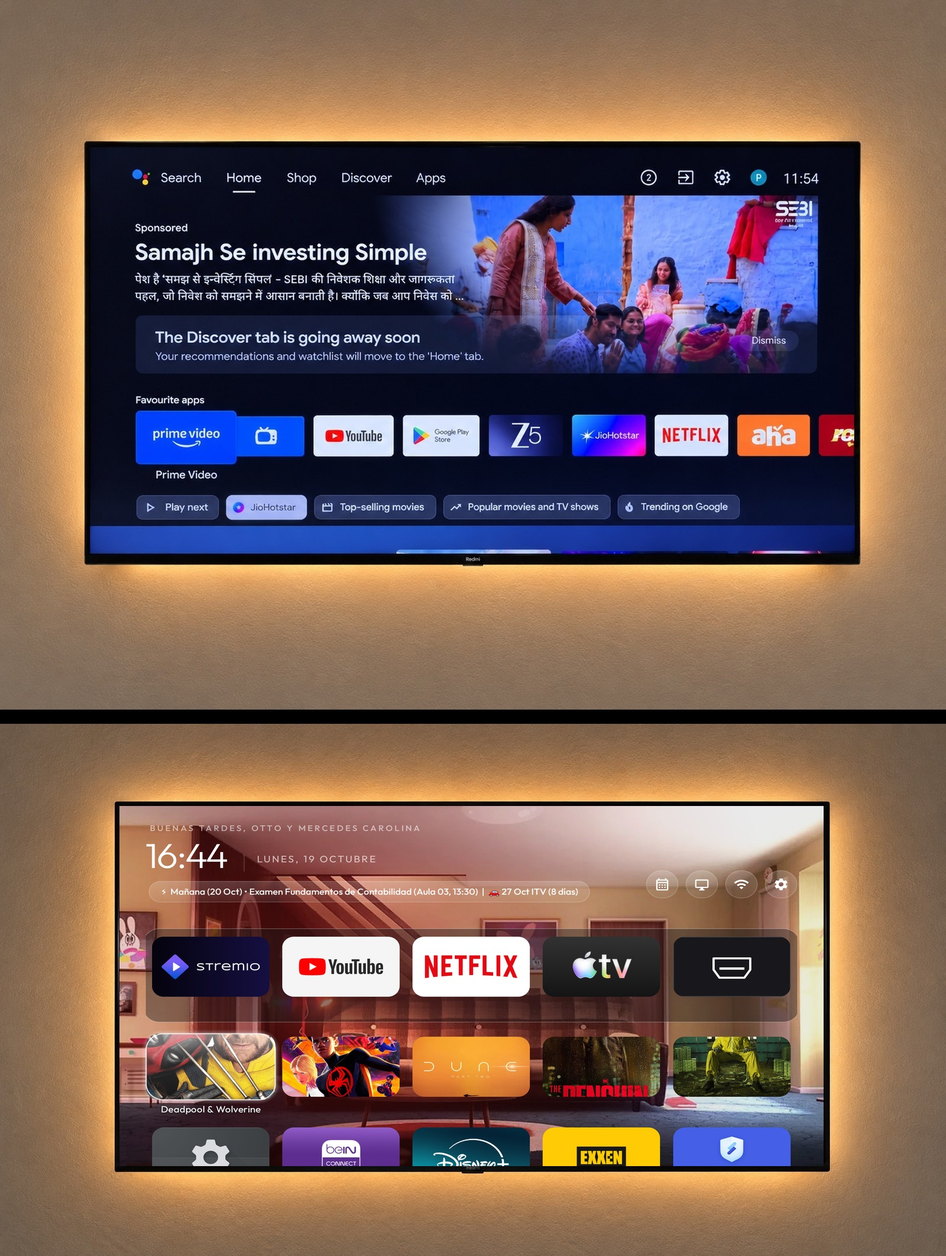
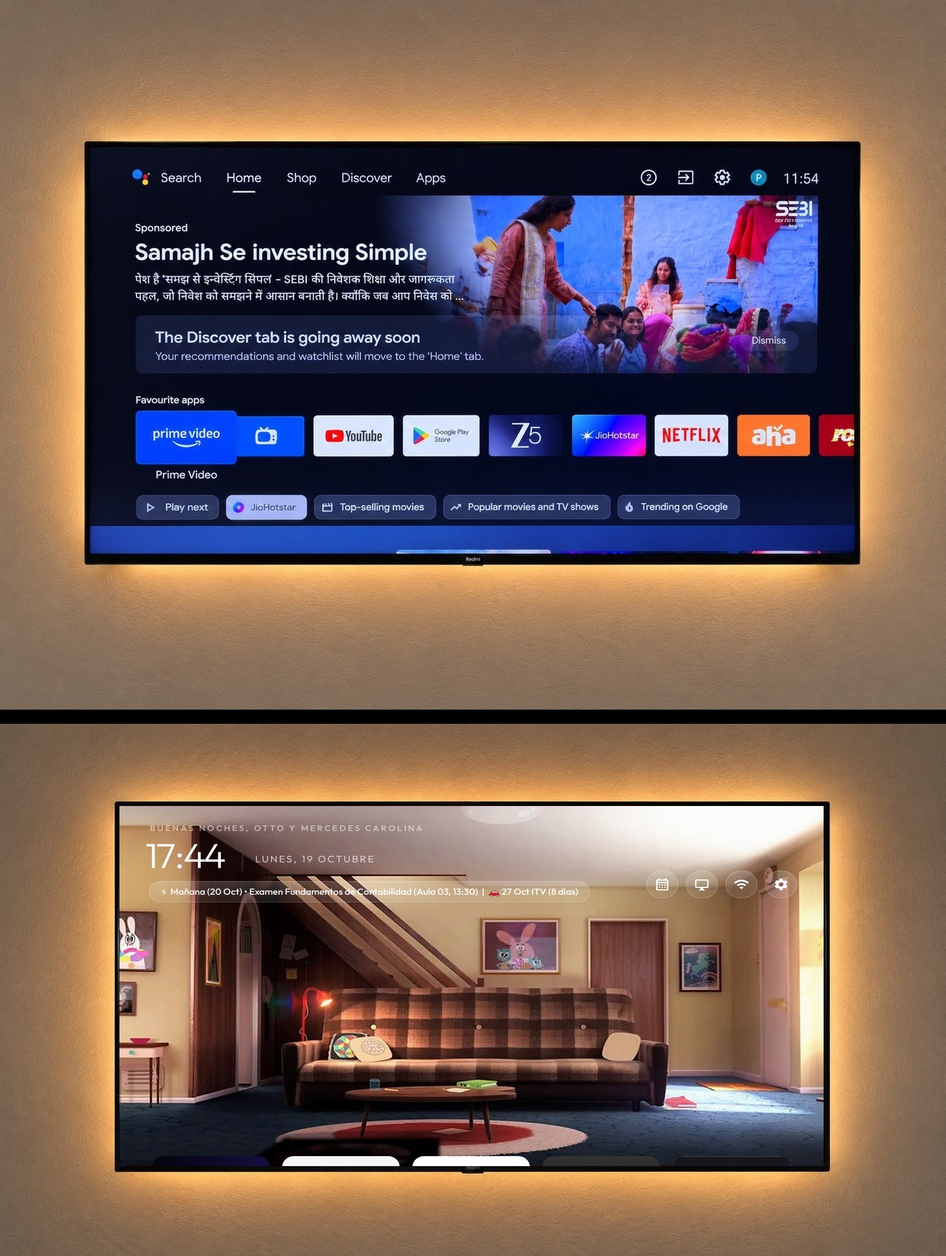
docs: make wallpaper-focused ambient look the primary showcase and hero visual

Changed region(s): [[0.125, 0.6215, 0.8438, 0.9322]]

diff --git a/README.md b/README.md
@@ -6,28 +6,35 @@ A lightweight, privacy-focused tvOS-inspired launcher fork for Android TV and Go
 This fork builds upon [Gathin23/cleanyourtv](https://github.com/Gathin23/cleanyourtv) with a rich media shelf, wallpaper peek physics, a frosted glass settings interface, and integrated calendar tracking.
 
 <p align="center">
-  <img src="docs/stock-vs-new-side.jpg" alt="Before and After: Stock TV vs tvOS Launcher with Stremio Shelf" width="100%">
+  <img src="docs/new-home.jpg" alt="Wallpaper-Focused tvOS Launcher on Android TV" width="100%">
 </p>
 
-| Stock home screen (Before) | tvOS Launcher with Stremio Shelf & Peek Dock (After) |
-|---|---|
-| ![Stock Google TV home with a sponsored ad](docs/stock-home.jpg) | ![tvOS-style launcher with Stremio shelf and dock](docs/new-home.jpg) |
+### Before & After
+
+<p align="center">
+  <img src="docs/stock-vs-new-side.jpg" alt="Before and After: Stock TV vs Wallpaper-Focused Launcher" width="100%">
+</p>
 
 Everything is reversible: packages are disabled, never uninstalled, and a restore script puts the stock launcher back.
 
 ## Fork Features
 
-- **Stremio Integration & Media Shelf:** Adds an auto-populated shelf for your continue-watching and trending Stremio media with cached posters and seamless leanback intent launching.
-- **Ultra-Low Dock Peek Mode:** Minimizes the dock down towards the bottom bezel when unfocused so your wallpapers and media remain visible. Seamlessly springs back up when pressing DPAD Down.
+- **Wallpaper-Focused Ambient Aesthetics:** Transforms your living room TV into an artful ambient display with dynamic Day/Night solar cycles.
+- **Ultra-Low Dock Peek Mode:** Minimizes the dock down towards the bottom bezel when unfocused so your wallpapers and ambient art remain unobstructed. Seamlessly springs back up when pressing DPAD Down.
+- **Stremio Integration & Media Shelf:** Adds an auto-populated shelf for continue-watching and trending Stremio media with cached posters and seamless leanback launching.
 - **Frosted Glass Settings:** A leanback tvOS-style frosted glass settings overlay allowing you to toggle dock peek depth (Ultra / Balanced / None), pill styles (icon-only vs. text+logo), and themes.
 - **Dynamic Day/Night Theme Cycle:** Automatically transitions wallpapers between day and night based on the local solar cycle.
 - **Calendar & Schedule Overlay:** Lightweight, keyboard/dpad friendly month calendar with day tracking and agenda support.
 - **Smart App Labels:** Keeps the interface clean by revealing app titles only under the currently focused item.
 - **Remote Video Key Shortcut:** Accessibility service helper to map remote media/video shortcuts to launch Stremio directly.
 
-| Dynamic Wallpaper & Peek Dock Mode | Frosted Glass Settings Overlay |
+| Dynamic Wallpaper & Peek Dock Mode | Dynamic Stremio Media Shelf |
 |---|---|
-| ![Ultra-low dock peek mode](docs/dock-peek-wallpaper.png) | ![Frosted glass settings](docs/settings-frosted.png) |
+| ![Ultra-low dock peek mode](docs/dock-peek-wallpaper.png) | ![Stremio shelf and dock apps](docs/stremio-shelf.png) |
+
+| Frosted Glass Settings Overlay |
+|---|
+| ![Frosted glass settings](docs/settings-frosted.png) |
 
 ## Quick start
 
